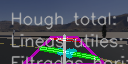
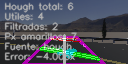
Agregar artefacto de mosaico y actualizar reporte de validación

diff --git a/Actividad_2_1_Validacion_Latest.md b/Actividad_2_1_Validacion_Latest.md
@@ -2,17 +2,17 @@
 
 ## Resumen
 
-- Cuadros procesados: 81901
-- Cuadros con al menos una linea Hough detectada: 81855 (99.9%)
-- Cuadros con lineas utiles despues del filtro: 81729 (99.8%)
-- Cuadros guiados directamente por Hough: 81729 (99.8%)
-- Cuadros que usaron retencion temporal ('steering_hold'): 161 (0.2%)
-- Cuadros con error estable (+/-6 px) usando Hough: 2654 (3.2%)
-- Cuadros con pixeles amarillos visibles: 2480 (3.0%)
+- Cuadros procesados: 1401
+- Cuadros con al menos una linea Hough detectada: 1368 (97.6%)
+- Cuadros con lineas utiles despues del filtro: 1332 (95.1%)
+- Cuadros guiados directamente por Hough: 1332 (95.1%)
+- Cuadros que usaron retencion temporal ('steering_hold'): 59 (4.2%)
+- Cuadros con error estable (+/-6 px) usando Hough: 1093 (78.0%)
+- Cuadros con pixeles amarillos visibles: 1219 (87.0%)
 - Primer cuadro con guia Hough: frame 0
-- Racha mas larga de cuadros guiados por Hough: 78650
-- Maximo de lineas Hough detectadas en un cuadro: 19
-- Maximo de lineas utiles en un cuadro: 16
+- Racha mas larga de cuadros guiados por Hough: 1116
+- Maximo de lineas Hough detectadas en un cuadro: 10
+- Maximo de lineas utiles en un cuadro: 7
 
 ## Interpretacion
 
